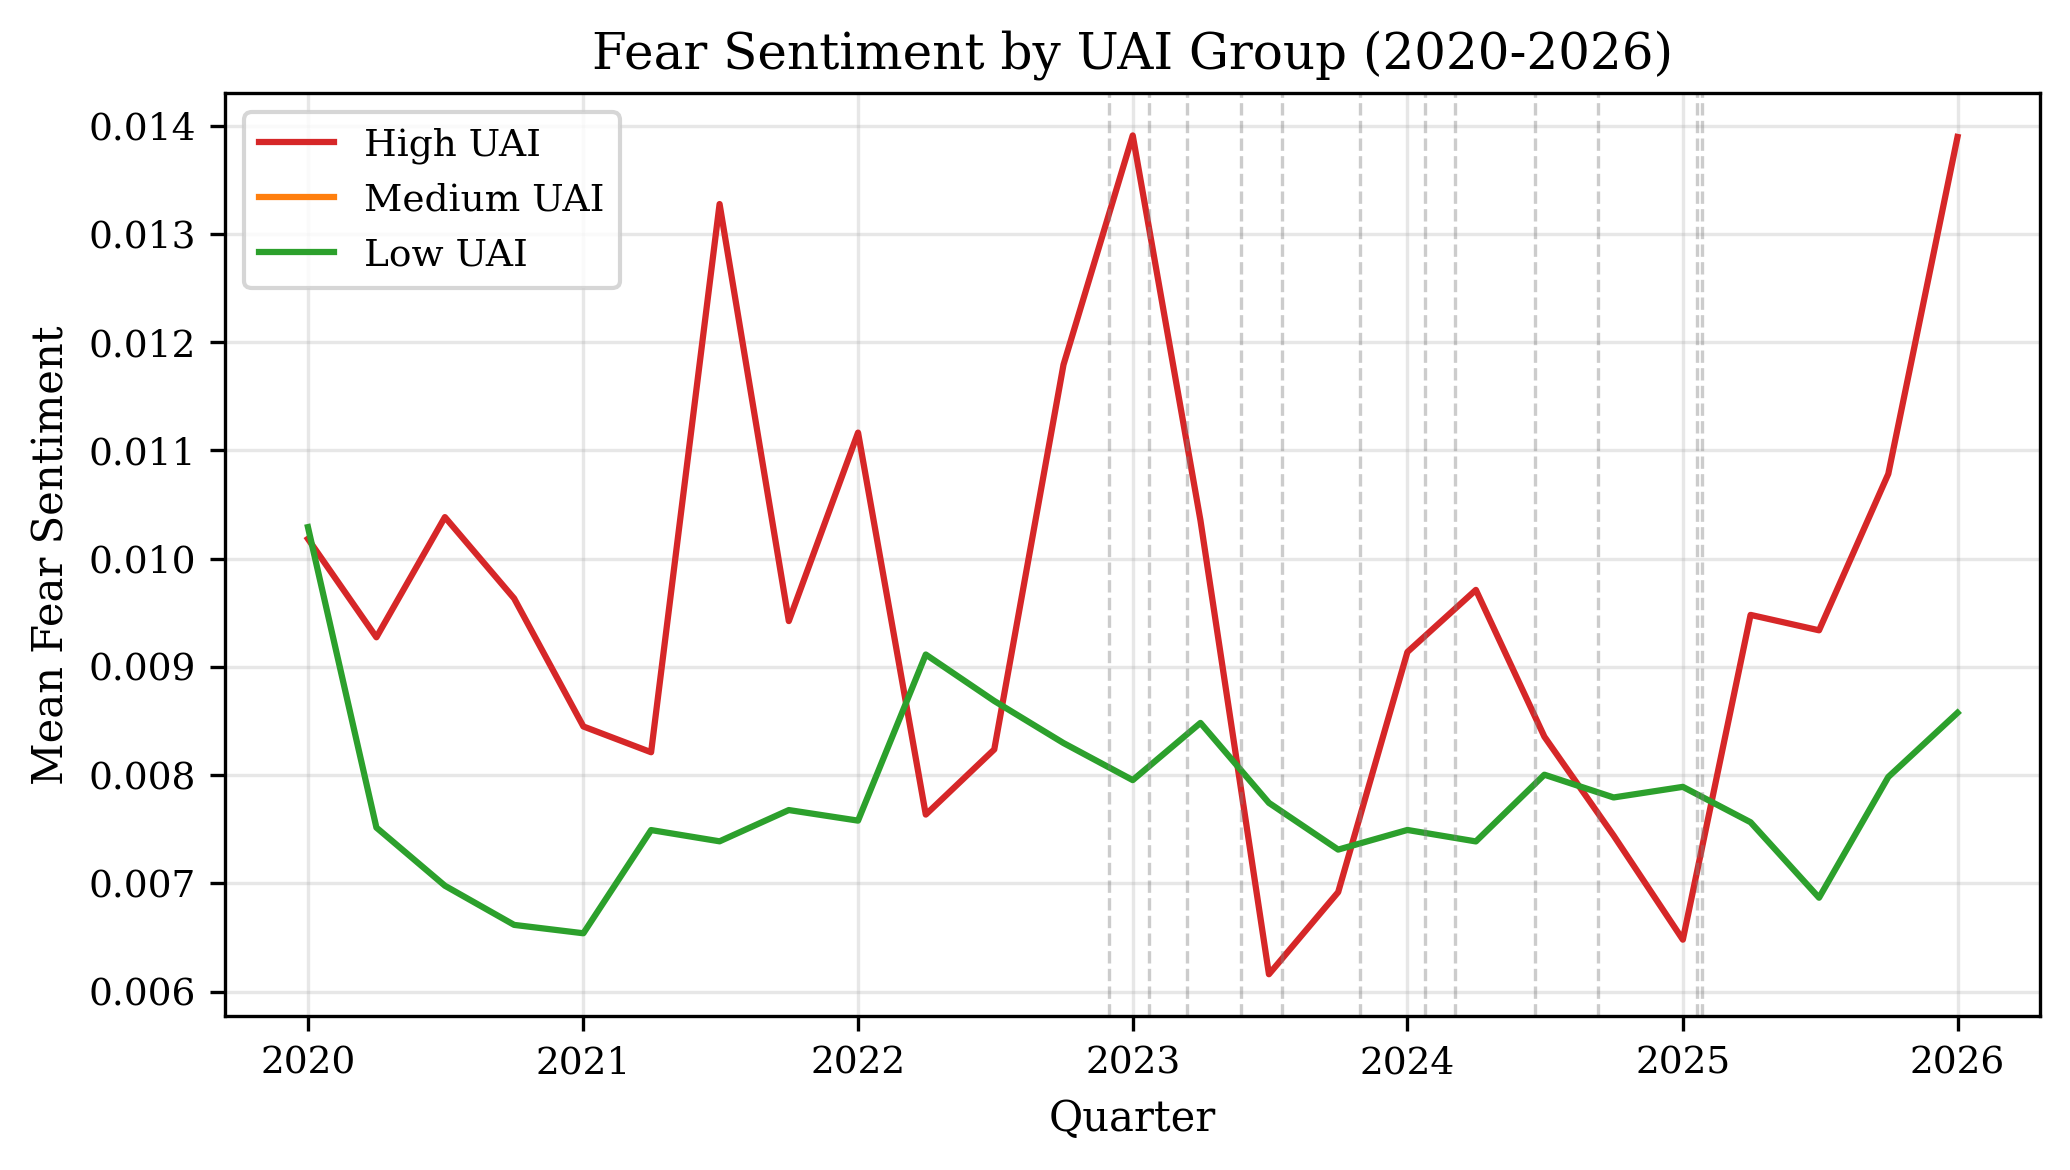
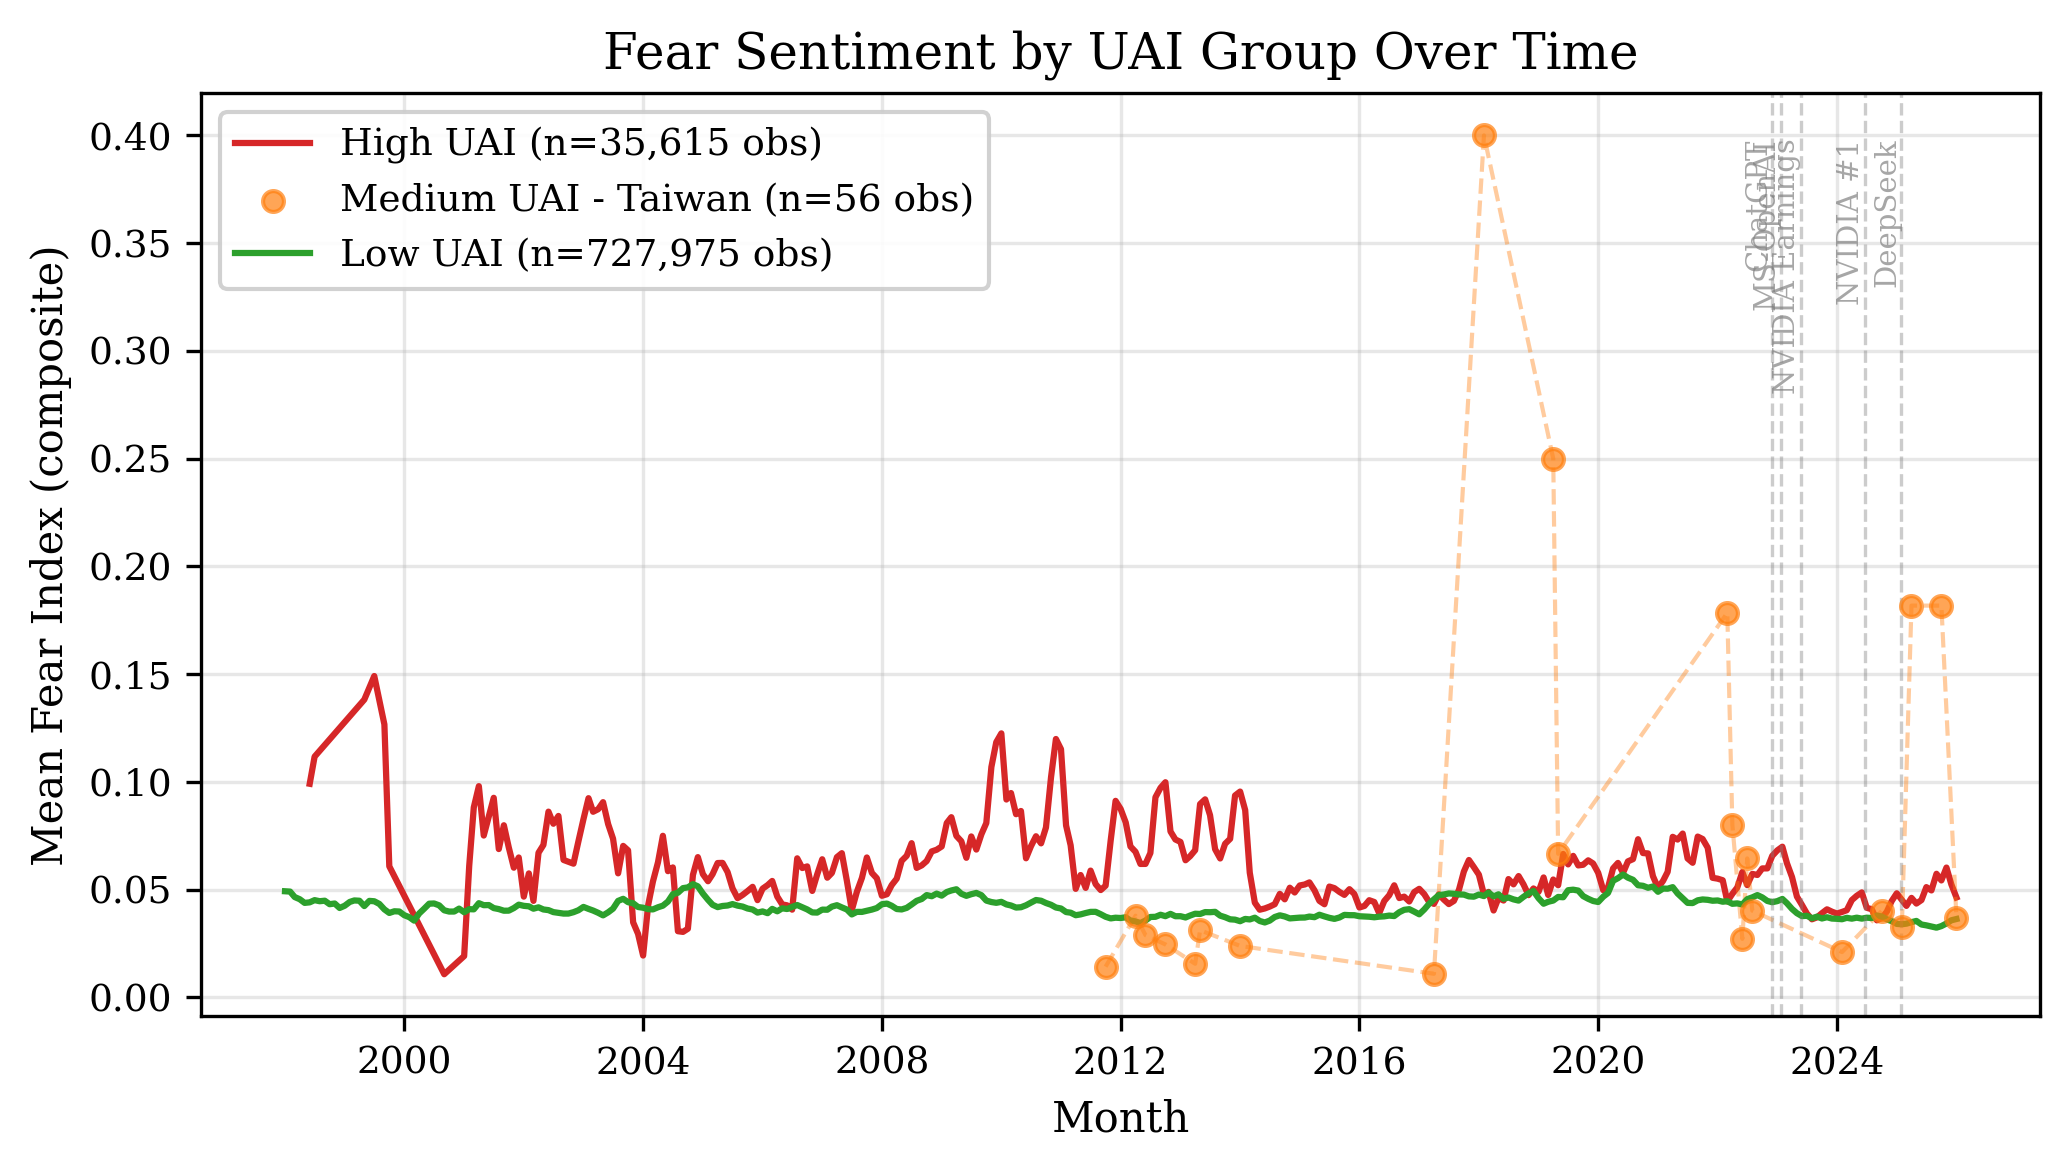
Fix Figure 1 to show Medium UAI (Taiwan) data points
Taiwan has only 56 fear_index observations spread across 22 months,
so the previous min-obs threshold of 5 per month filtered out most
data. Now uses per-group thresholds (1 for Medium, 5 for others)
and renders Medium as scatter points with dashed connecting line
instead of a smoothed curve.

diff --git a/RQ1_Analysis/analysis.py b/RQ1_Analysis/analysis.py
@@ -577,30 +577,56 @@ def generate_visualizations(panel, monthly_ts, event_results):
 
     colors = {'High': '#d62728', 'Medium': '#ff7f0e', 'Low': '#2ca02c'}
 
-    # Filter to AI era and compute quarterly averages
-    panel_ai = panel[panel['date'] >= '2020-01-01'].copy()
-    panel_ai['quarter'] = panel_ai['date'].dt.to_period('Q')
+    # Use full date range and monthly averages with fear_index for better coverage
+    # (raw 'fear' has only 4 obs for Medium/Taiwan; fear_index has 56)
+    panel_ts = panel.copy()
+    panel_ts['yearmonth'] = panel_ts['date'].dt.to_period('M')
 
-    quarterly = panel_ai.groupby(['quarter', 'uai_group']).agg(
-        mean_fear=('fear', 'mean'),
+    monthly_fig = panel_ts.groupby(['yearmonth', 'uai_group']).agg(
+        mean_fear=('fear_index', 'mean'),
+        obs=('fear_index', 'count'),
     ).reset_index()
-    quarterly['quarter_dt'] = quarterly['quarter'].dt.to_timestamp()
+    monthly_fig['month_dt'] = monthly_fig['yearmonth'].dt.to_timestamp()
+
+    # Different min-obs thresholds: generous for Medium (Taiwan, sparse data)
+    min_obs = {'High': 5, 'Medium': 1, 'Low': 5}
 
     for group in ['High', 'Medium', 'Low']:
-        g = quarterly[quarterly['uai_group'] == group].sort_values('quarter_dt')
+        g = monthly_fig[(monthly_fig['uai_group'] == group) &
+                        (monthly_fig['obs'] >= min_obs[group])].sort_values('month_dt')
         if len(g) > 0:
-            ax.plot(g['quarter_dt'], g['mean_fear'],
-                    label=f'{group} UAI', color=colors[group], linewidth=1.5)
+            g = g.copy()
+            if group == 'Medium':
+                # Sparse data: show individual points with connecting dashed line
+                ax.scatter(g['month_dt'], g['mean_fear'],
+                           color=colors[group], s=25, alpha=0.7, zorder=5,
+                           label=f'{group} UAI - Taiwan (n={g["obs"].sum()} obs)')
+                ax.plot(g['month_dt'], g['mean_fear'],
+                        color=colors[group], linewidth=1.0, alpha=0.4, linestyle='--')
+            else:
+                # Dense data: rolling 3-month average for smoother lines
+                g['smooth_fear'] = g['mean_fear'].rolling(window=3, min_periods=1, center=True).mean()
+                ax.plot(g['month_dt'], g['smooth_fear'],
+                        label=f'{group} UAI (n={g["obs"].sum():,} obs)',
+                        color=colors[group], linewidth=1.5)
 
-    # Add event markers
+    # Add event markers with labels
+    event_labels = {
+        '2022-11-30': 'ChatGPT', '2023-01-23': 'MS-OpenAI',
+        '2023-05-25': 'NVIDIA Earnings', '2024-06-18': 'NVIDIA #1',
+        '2025-01-27': 'DeepSeek',
+    }
     for event_date_str, event_name in AI_EVENTS.items():
         event_date = pd.to_datetime(event_date_str)
-        if event_date >= pd.to_datetime('2020-01-01'):
-            ax.axvline(x=event_date, color='gray', linestyle='--', alpha=0.4, linewidth=0.8)
+        ax.axvline(x=event_date, color='gray', linestyle='--', alpha=0.4, linewidth=0.8)
+        if event_date_str in event_labels:
+            ymin, ymax = ax.get_ylim()
+            ax.text(event_date, ymax * 0.95, event_labels[event_date_str],
+                    rotation=90, fontsize=7, ha='right', va='top', color='gray', alpha=0.7)
 
-    ax.set_xlabel('Quarter')
-    ax.set_ylabel('Mean Fear Sentiment')
-    ax.set_title('Fear Sentiment by UAI Group (2020-2026)')
+    ax.set_xlabel('Month')
+    ax.set_ylabel('Mean Fear Index (composite)')
+    ax.set_title('Fear Sentiment by UAI Group Over Time')
     ax.legend(loc='upper left')
     ax.grid(True, alpha=0.3)
     plt.tight_layout()
